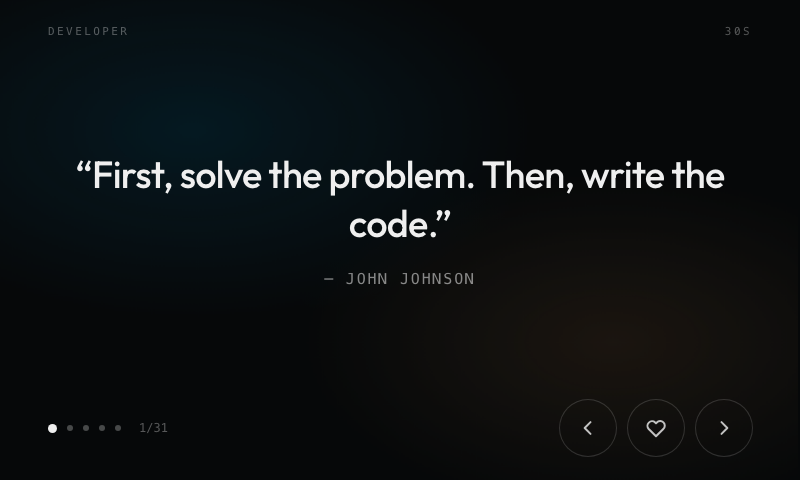
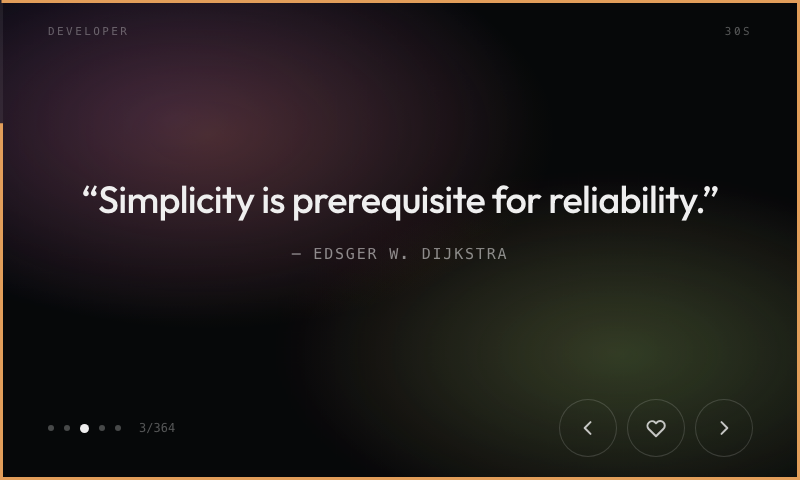
quote-flow: colour per quote, a countdown edge, and favourites as a category
Each quote carries its own hue, hashed from its id so the same line always
arrives the same colour rather than re-rolling on every pass. The first
hash barely moved between neighbouring ids, which put consecutive quotes
one degree apart; it avalanches now and the hues spread evenly.

The border runs the full perimeter and empties over the interval. It uses
pathLength so the dash maths ignores the actual size, and it pauses with
the rotation and while the panel is open.

Favourites joins the category row rather than sitting apart as a toggle:
it means every category narrowed to what is saved, and the chip carries
the count.

Claude-Session: https://claude.ai/code/session_01DCTuCWNjLE3xwYkahcyuiq

diff --git a/apps/quote-flow/src/App.tsx b/apps/quote-flow/src/App.tsx
@@ -9,6 +9,32 @@ const DEFAULT_INTERVAL_S = 30;
 const MIN_INTERVAL_S = 5;
 const DOTS = 5;
 
+/** a stable hue per quote: the same line always arrives in the same colour rather than re-rolling.
+    ids differ by one character, so the hash has to avalanche or neighbours come out the same shade. */
+function hueOf(id: string) {
+  let hash = 2166136261;
+  for (let i = 0; i < id.length; i++) {
+    hash ^= id.charCodeAt(i);
+    hash = Math.imul(hash, 16777619);
+  }
+  hash ^= hash >>> 15;
+  hash = Math.imul(hash, 2246822507);
+  hash ^= hash >>> 13;
+  return (hash >>> 0) % 360;
+}
+
+function washFor(id: string) {
+  const a = hueOf(id);
+  // the partner hue sits far enough round the wheel to read as a second colour, not a smudge
+  const b = (a + 70 + (hueOf(id + 'b') % 90)) % 360;
+  return {
+    background:
+      `radial-gradient(62% 58% at 26% 28%, hsl(${a} 70% 45% / 0.30), transparent 70%),` +
+      `radial-gradient(58% 52% at 78% 74%, hsl(${b} 65% 48% / 0.24), transparent 70%)`,
+    edge: `hsl(${a} 70% 62%)`,
+  };
+}
+
 
 function parseCategories(value: string | null): Category[] {
   if (!value || value === 'all') return ALL_CATEGORIES;
@@ -52,7 +78,10 @@ export default function App() {
   useEffect(() => {
     const apply = (entries: { key: string; value: string }[]) => {
       for (const e of entries) {
-        if (e.key === 'categories') setCategories(parseCategories(e.value));
+        if (e.key === 'categories') {
+          setCategories(parseCategories(e.value === 'favourites' ? 'all' : e.value));
+          if (e.value === 'favourites') setFavouritesOnly(true);
+        }
         if (e.key === 'interval') {
           const n = Number(e.value);
           if (Number.isFinite(n)) setIntervalS(Math.max(MIN_INTERVAL_S, n));
@@ -79,7 +108,9 @@ export default function App() {
   }, [client]);
 
   useEffect(() => {
-    if (overrides.categories) setCategories(parseCategories(overrides.categories));
+    if (overrides.categories) {
+      setCategories(parseCategories(overrides.categories === 'favourites' ? 'all' : overrides.categories));
+    }
     if (overrides.interval) {
       const n = Number(overrides.interval);
       if (Number.isFinite(n)) setIntervalS(Math.max(MIN_INTERVAL_S, n));
@@ -140,12 +171,12 @@ export default function App() {
 
   return (
     <div className="relative h-full w-full overflow-hidden bg-screen">
-      <div
-        className="wash pointer-events-none absolute inset-0 opacity-70"
-        style={{
-          background:
-            'radial-gradient(60% 55% at 28% 30%, rgba(0,168,232,0.16), transparent 70%), radial-gradient(55% 50% at 78% 72%, rgba(255,176,102,0.12), transparent 70%)',
-        }}
+      <Wash quoteId={quote?.id ?? 'none'} />
+      <Countdown
+        quoteId={quote?.id ?? 'none'}
+        seconds={intervalS}
+        paused={paused || deck.length < 2 || panel}
+        colour={washFor(quote?.id ?? 'none').edge}
       />
 
       <div className="relative flex h-full w-full flex-col px-12 py-6">
@@ -186,7 +217,15 @@ export default function App() {
           paused={paused}
           favouriteCount={favourites.size}
           deckSize={deck.length}
-          onCategory={next => setOverride('categories', next)}
+          onCategory={next => {
+            if (next === 'favourites') {
+              setOverride('favouritesOnly', 'true');
+              setOverride('categories', 'all');
+            } else {
+              setOverride('favouritesOnly', 'false');
+              setOverride('categories', next);
+            }
+          }}
           onInterval={next => setOverride('interval', String(next))}
           onFavouritesOnly={next => setOverride('favouritesOnly', String(next))}
           onPaused={setPaused}
@@ -196,7 +235,7 @@ export default function App() {
   );
 }
 
-const PANEL_CATEGORIES: (Category | 'all')[] = ['all', ...ALL_CATEGORIES];
+const PANEL_CATEGORIES: (Category | 'all' | 'favourites')[] = ['all', 'favourites', ...ALL_CATEGORIES];
 
 function Panel({
   categories,
@@ -221,7 +260,7 @@ function Panel({
   onFavouritesOnly: (next: boolean) => void;
   onPaused: (next: boolean) => void;
 }) {
-  const current = categories.length === ALL_CATEGORIES.length ? 'all' : (categories[0] ?? 'all');
+  const current = favouritesOnly ? 'favourites' : categories.length === ALL_CATEGORIES.length ? 'all' : (categories[0] ?? 'all');
   return (
     <div className="absolute inset-0 z-10 flex flex-col bg-screen/97 px-8 py-5 backdrop-blur-sm">
       <div className="flex items-baseline justify-between">
@@ -241,7 +280,7 @@ function Panel({
               className={`rounded-full px-3 py-1.5 text-hint font-medium transition active:scale-95 ${
                 on ? 'bg-off-white text-screen' : 'bg-white/8 text-dim'
               }`}>
-              {c === 'all' ? 'All' : CATEGORY_LABEL[c]}
+              {c === 'all' ? 'All' : c === 'favourites' ? `Favourites (${favouriteCount})` : CATEGORY_LABEL[c]}
             </button>
           );
         })}
@@ -297,6 +336,66 @@ function Step({ label, onClick, children }: { label: string; onClick: () => void
     </button>
   );
 }
+
+/** the outgoing colour stays underneath while the incoming one fades over it, so there is no cut */
+const Wash = memo(function Wash({ quoteId }: { quoteId: string }) {
+  const [layers, setLayers] = useState<{ id: string; background: string }[]>(() => [
+    { id: quoteId, background: washFor(quoteId).background },
+  ]);
+
+  useEffect(() => {
+    setLayers(current => {
+      if (current[current.length - 1]?.id === quoteId) return current;
+      // only the one being replaced is worth keeping; anything older is already covered
+      return [...current.slice(-1), { id: quoteId, background: washFor(quoteId).background }];
+    });
+  }, [quoteId]);
+
+  return (
+    <div className="pointer-events-none absolute inset-0">
+      {layers.map((layer, i) => (
+        <div
+          key={layer.id}
+          className={`wash absolute inset-0 ${i === layers.length - 1 && layers.length > 1 ? 'tint-in' : ''}`}
+          style={{ background: layer.background }}
+        />
+      ))}
+    </div>
+  );
+});
+
+/** a rule around all four edges that empties as the interval runs down */
+const Countdown = memo(function Countdown({
+  quoteId,
+  seconds,
+  paused,
+  colour,
+}: {
+  quoteId: string;
+  seconds: number;
+  paused: boolean;
+  colour: string;
+}) {
+  return (
+    <svg className="pointer-events-none absolute inset-0 h-full w-full" viewBox="0 0 800 480" preserveAspectRatio="none">
+      <rect x="1.5" y="1.5" width="797" height="477" fill="none" stroke="rgba(239,239,239,0.07)" strokeWidth="3" />
+      <rect
+        key={`${quoteId}-${seconds}`}
+        className="countdown"
+        x="1.5"
+        y="1.5"
+        width="797"
+        height="477"
+        fill="none"
+        stroke={colour}
+        strokeWidth="3"
+        pathLength={1000}
+        strokeDasharray={1000}
+        style={{ ['--countdown-duration' as string]: `${seconds}s`, animationPlayState: paused ? 'paused' : 'running' }}
+      />
+    </svg>
+  );
+});
 
 /** keyed on the quote so react remounts it, which is what replays the entrance */
 const Stage = memo(function Stage({ quote }: { quote: Quote | undefined }) {

diff --git a/apps/quote-flow/src/index.css b/apps/quote-flow/src/index.css
@@ -93,6 +93,35 @@
   animation: wash 48s ease-in-out infinite;
 }
 
+/* the perimeter empties as the interval runs down. pathLength normalises the rect to 1000 units,
+   so the dash maths does not care about the actual screen size */
+@keyframes countdown {
+  from {
+    stroke-dashoffset: 0;
+  }
+  to {
+    stroke-dashoffset: 1000;
+  }
+}
+
+.countdown {
+  animation: countdown var(--countdown-duration, 30s) linear forwards;
+}
+
+/* a new quote's colour fades in over the one before it rather than cutting */
+@keyframes tint-in {
+  from {
+    opacity: 0;
+  }
+  to {
+    opacity: 1;
+  }
+}
+
+.tint-in {
+  animation: tint-in 900ms ease-out forwards;
+}
+
 @layer base {
   :root {
     color-scheme: dark;

diff --git a/apps/quote-flow/CHANGELOG.md b/apps/quote-flow/CHANGELOG.md
@@ -1,5 +1,9 @@
 # quote-flow
 
+## 0.3.0
+
+Per-quote colour, a countdown border, and a favourites category.
+
 ## 0.2.0
 
 Settings on the device, and the full quote collection.
